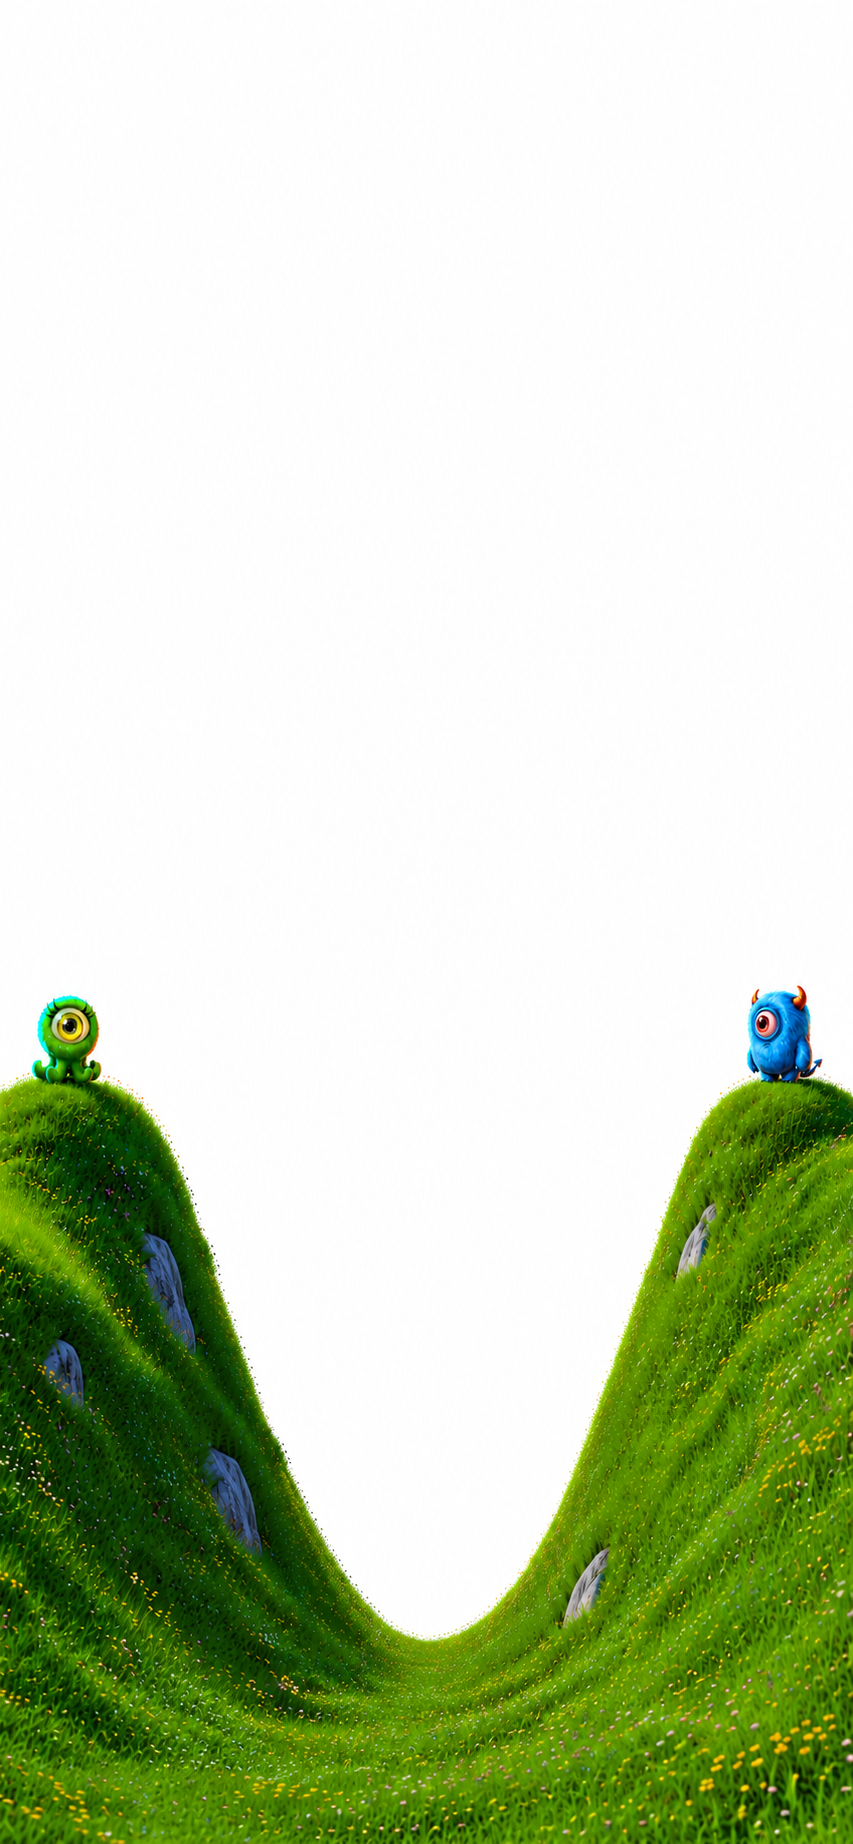
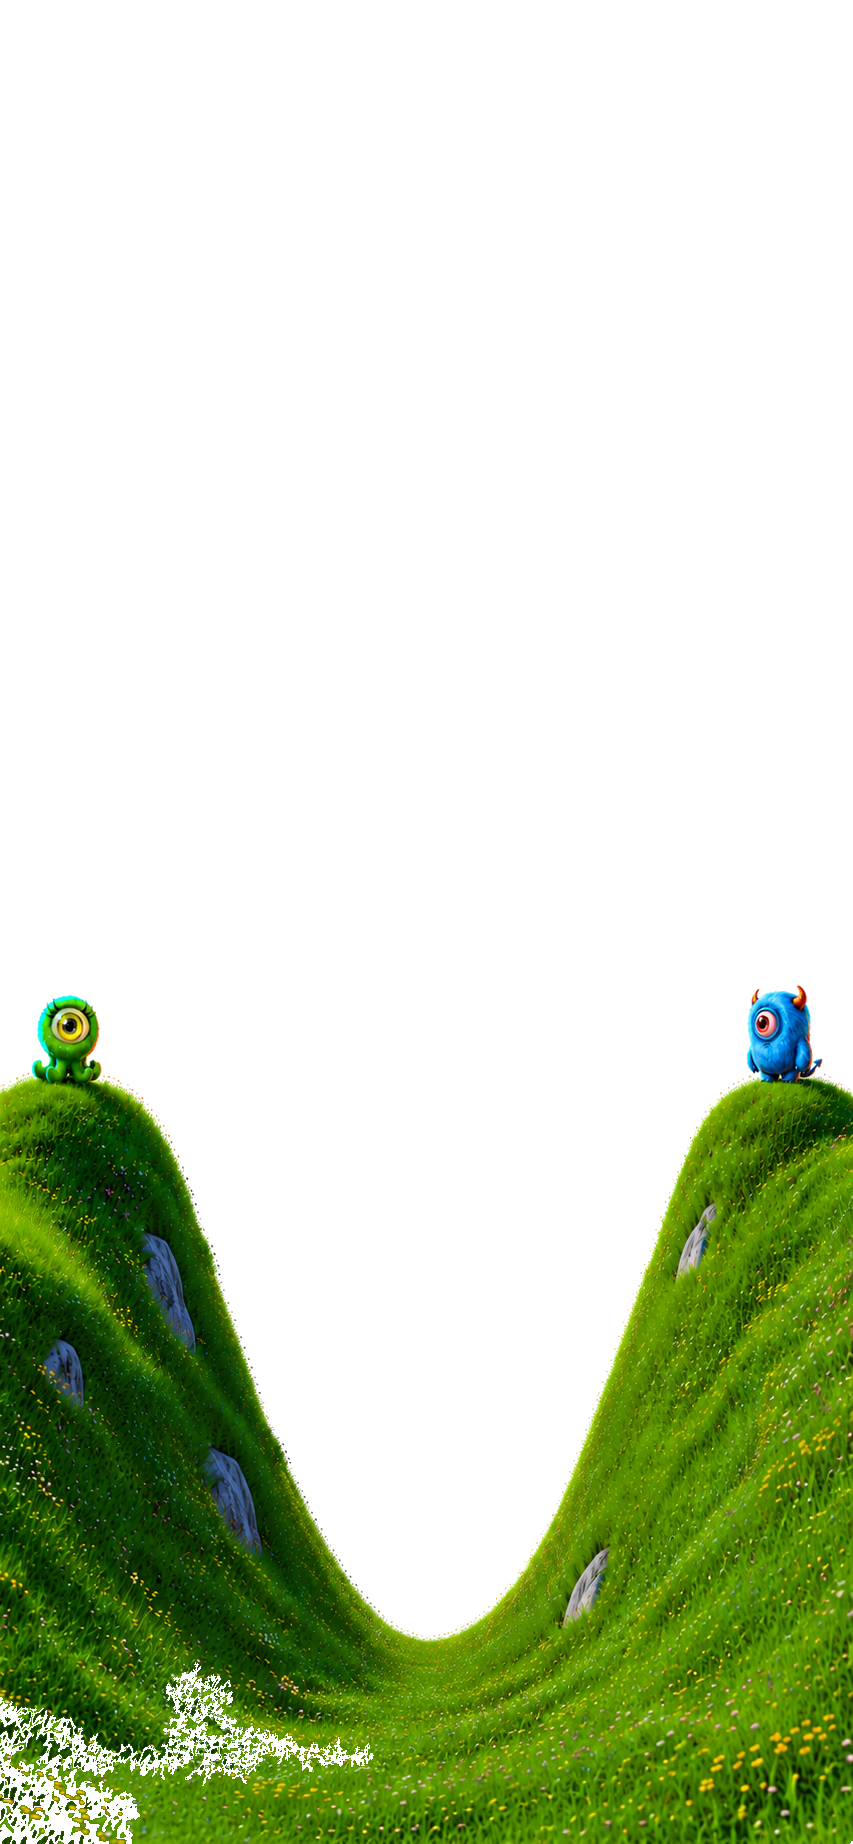
Use dedicated mobile artwork (Mobile.png) and bump mobile title size
- swap front.png for a portrait Mobile.png on phones (white background
  knocked out to transparency so the sky shows through)
- enlarge the mobile headline while keeping it on 2 lines

Changed region(s): [[0.0, 0.8964, 0.4267, 1.0]]

diff --git a/index.html b/index.html
@@ -51,6 +51,8 @@
     pointer-events: none;
     z-index: 2;
   }
+  /* the mobile-specific art is hidden on desktop; the swap happens in the mobile @media */
+  .hills--mob { display: none; }
 
   .title {
     position: absolute; top: 30%; left: 50%;
@@ -430,15 +432,16 @@
     .anno { display: none; }
 
     .graph { padding: 0 12px; }
-    .title { top: 25%; width: 100vw; padding: 0 18px; }
-    /* smaller so the headline fits on 2 lines, not 3 */
-    .title h1 { font-size: clamp(16px, 4.5vw, 25px); line-height: 1.15; }
+    .title { top: 24%; width: 100vw; padding: 0 16px; }
+    /* as large as it can be while still wrapping to 2 lines, not 3 */
+    .title h1 { font-size: clamp(18px, 5.4vw, 26px); line-height: 1.14; }
     .title p { margin-top: 13px; }
     .btns { margin-top: 26px; gap: 10px; }
     .btn { padding: 13px 22px; }
 
-    /* zoom the mountains in a bit so they frame the centered content nicely */
-    .hills { width: 165%; bottom: -3vh; }
+    /* swap in the dedicated mobile artwork */
+    .hills--desk { display: none; }
+    .hills--mob { display: block; width: 100%; bottom: 0; }
 
     .worked { top: 60%; width: 94vw; gap: 12px; }
     .track { gap: 38px; }
@@ -494,8 +497,9 @@
         </div>
       </div>
 
-      <!-- mountains -->
-      <img class="hills" src="front.png" alt="" />
+      <!-- mountains (desktop art + a dedicated mobile crop) -->
+      <img class="hills hills--desk" src="front.png" alt="" />
+      <img class="hills hills--mob" src="Mobile.png" alt="" />
 
       <div class="title">
         <h1>We turn your product into a library of templates &amp; Skills</h1>
